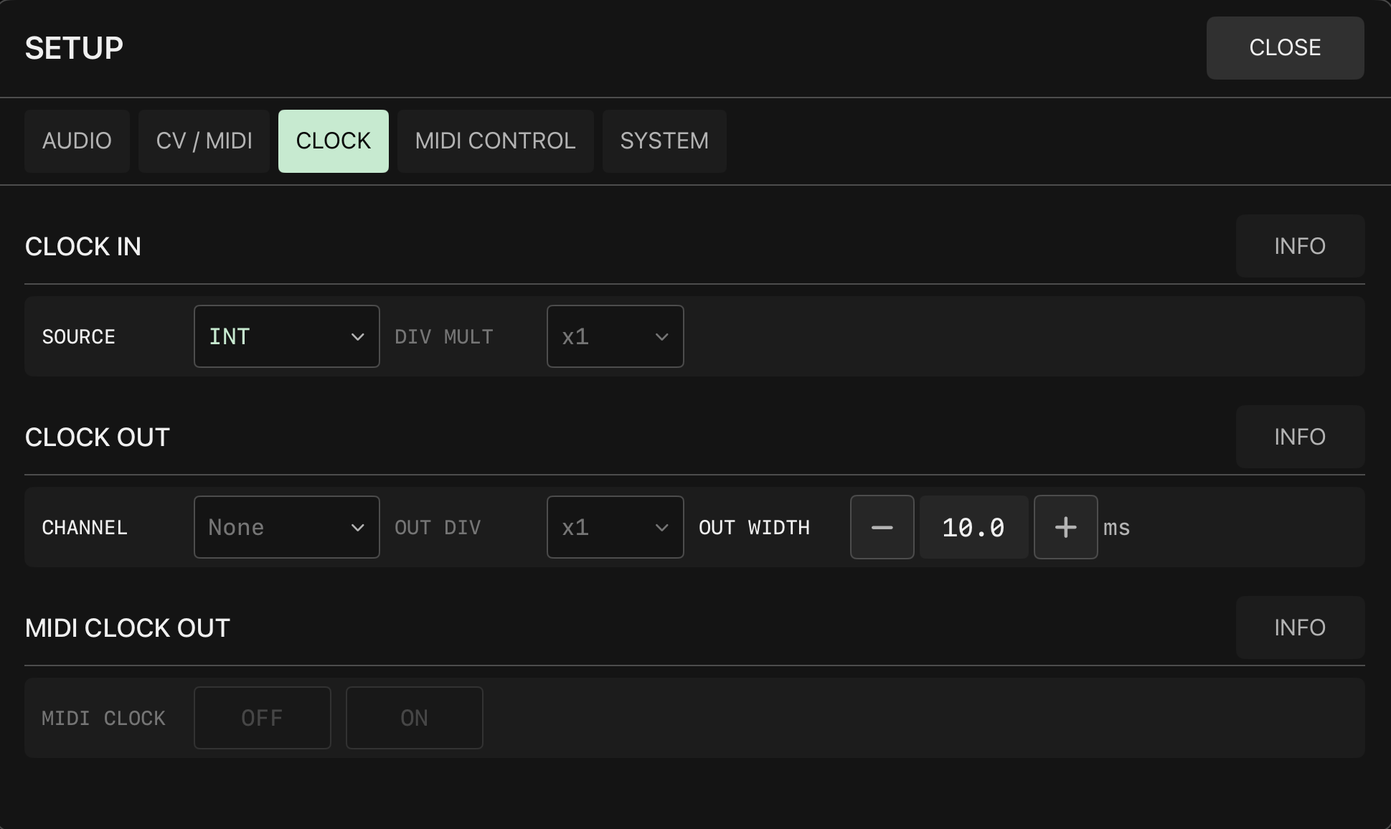
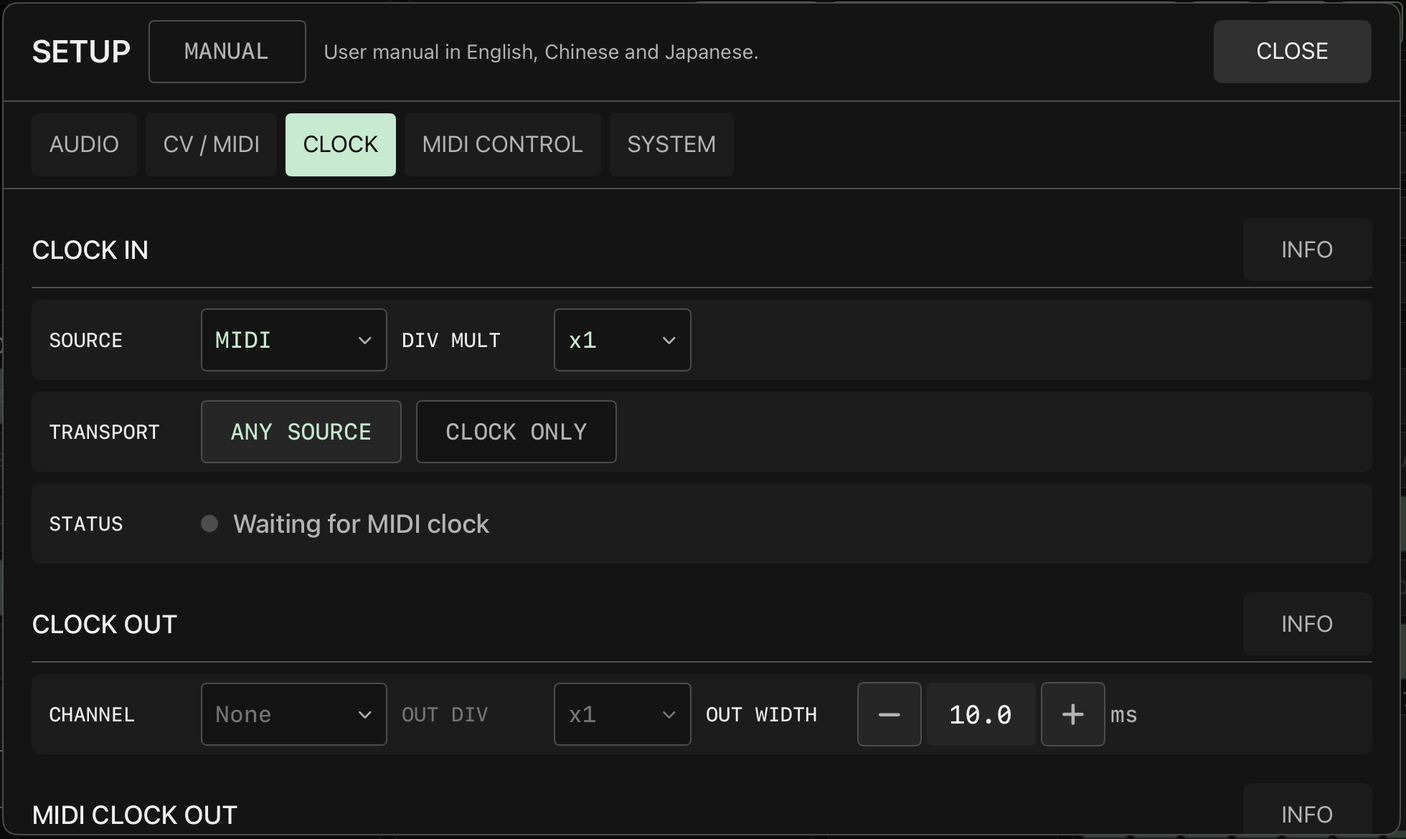
HONKI manual: 1.4.7 screenshots (DRUM KIT, VISUAL RANDOM/GLIDE TIME, SETUP MANUAL/TRANSPORT) and updated RANDOM/GLIDE TIME text
Claude-Session: https://claude.ai/code/session_017WxayuSEX8SDry88TxGAtZ

diff --git a/assets/manuals/honki/HONKI_Manual_ja.html b/assets/manuals/honki/HONKI_Manual_ja.html
@@ -437,7 +437,7 @@ footer { margin-top:80px; padding-top:24px; border-top:1px solid #2A2A2A; font-s
 
 <h3>ヘッダーとトラックセル</h3>
 <div class="fig"><img src="img/voice_header.png" alt="VOICE ヘッダー"></div>
-<div class="cap">ヘッダー：SOUND SOURCE、EDITING TRACK 1、4 つの音源ボタン SYNTH（選択中）/ SAMPLE / PHYSICAL / AU。2 行目は TRACK 1 から 8 のセルで、それぞれ音源名と M / S を表示します。3 行目は SEGMENT 1 から 8、DECAY、HARM、AUTO、TYPE、VOICE、INV、3RD / 5TH / 7TH、CLEAR、SAVE。</div>
+<div class="cap">ヘッダー：SOUND SOURCE、EDITING TRACK 5、4 つの音源ボタン SYNTH / SAMPLE（選択中）/ PHYSICAL / AU。2 行目は TRACK 1 から 8 のセルで、それぞれ音源名と M / S を表示します。3 行目は SEGMENT 1 から 8 と DECAY で、SAMPLE トラックではこの行の右端に CLEAR、SAVE、DRUM KIT があります。図では右側に DRUM KIT メニューが開いていて、TRACKS 5-8、SAVE、LOAD、DELETE が見えます。</div>
 <table>
 <tr><td class="k">音源ボタン</td><td>SYNTH、SAMPLE、PHYSICAL、AU から 1 つを選びます。</td></tr>
 <tr><td class="k">TRACK セル</td><td>トラック名と音源を表示します。M はミュート、S はソロで、0.4 秒長押しで排他ソロになります。状態は MIXER と共有です。トラックを切り替えたとき、別のトラックが RECORD 中なら停止します。</td></tr>
@@ -447,6 +447,10 @@ footer { margin-top:80px; padding-top:24px; border-top:1px solid #2A2A2A; font-s
 <tr><td class="k">SAVE</td><td>現在のパネルのパラメータ（ハーモニー設定を含む）をセグメントメモリに保存します。</td></tr>
 <tr><td class="k">DRUM KIT</td><td>編集中のトラックの音源が SAMPLE のとき、SAVE の右に表示されます。押すと SAVE、LOAD、DELETE のメニューが開きます。ドラムキットは TRACK 5 から 8 の MULTI 設定一式で、MULTI のオン / オフ、パッド数、読み込み済みの各パッドのオーディオファイルとパッドパラメータを含みます。SAVE では名前を入力し（初期値は「Kit」と日時）、オーディオファイルはキットのフォルダにコピーされるため、元のファイルを移動してもキットはそのまま使えます。LOAD には保存済みのキットが保存日時とともに並び、読み込むと TRACK 5 から 8 が SAMPLE に切り替わり、パッドが消去され、MULTI が有効になってキットのパッドが読み込まれます。DELETE は確認のうえでキットとそのオーディオファイルを削除します。保存済みのキットがないときは LOAD と DELETE がグレー表示になります。キットは端末の Documents / DrumKits に保存され、ファイル App から見ることができます。プロジェクトには含まれません。</td></tr>
 </table>
+<div class="fig"><img src="img/drumkit_menu.png" alt="DRUM KIT メニュー"></div>
+<div class="cap">DRUM KIT メニュー：見出しの TRACKS 5-8、SAVE、LOAD、DELETE。LOAD と DELETE は保存済みキットの一覧を開きます。</div>
+<div class="fig"><img src="img/drumkit_save.png" alt="SAVE DRUM KIT ダイアログ"></div>
+<div class="cap">SAVE DRUM KIT ダイアログ：TRACK 5 から 8 のサンプラー設定とオーディオファイルをキットフォルダにコピーするという説明、初期値「Kit」と日時が入った名前欄、CANCEL と SAVE のボタン。</div>
 <p>パネル編集の規則：現在のセグメントにメモリがあるときは、パネルの変更はメモリの内容に対して行われます。メモリがないときはトラックのベースに対して行われます。サンプルの読み込みと録音、PHYSICAL の MODEL と POLYPHONY、AU の読み込みはトラックのベースに作用します。SLICE と MULTI はトラック単位の設定で、互いに排他です。セグメントメモリを編集中は、パネルに「EDITING SEGMENT n MEMORY」の透かしが表示されます。</p>
 
 <h3>NOTE HARMONIC（SAMPLE 以外の音源）</h3>
@@ -871,11 +875,11 @@ footer { margin-top:80px; padding-top:24px; border-top:1px solid #2A2A2A; font-s
 <h2 id="visual">10. VISUAL</h2>
 
 <div class="fig"><img src="img/visual_full.png" alt="VISUAL ページ全体"></div>
-<div class="cap">VISUAL 全ページ。左上は 16:9 のプレビューとステータス行（60 FPS、SURFACES 1）。右上は SOURCE 列（錠アイコン、ALWAYS ON、CAMERA メニュー、BACK CAMERA、2 つの反転ボタン、2 つの回転ボタン）と 4 つのステーション PARTICLE、MESH、FEEDBACK、CHROMASCOPE で、それぞれドラッグハンドル、ON ボタン、MIX バーがあります（図では前の 3 つが 1.00、CHROMASCOPE が 0.35）。下に 4 つのパラメータパネル。</div>
+<div class="cap">VISUAL 全ページ。左上は 16:9 のプレビューとステータス行（60 FPS、SURFACES 1）。右上は SOURCE 列（錠アイコン、ALWAYS ON、CAMERA メニュー、FRONT CAMERA、2 つの反転ボタン、2 つの回転ボタン）と 4 つのステーション PARTICLE、MESH、FEEDBACK、CHROMASCOPE で、それぞれドラッグハンドル、ON ボタン、MIX バーがあります。MIX バーの右には RANDOM ボタン、GLIDE TIME の見出し、HOURS / MINUTES / SECONDS のバーがあります。下に 4 つのパラメータパネル。</div>
 
 <h3>SOURCE 列とステーション列</h3>
 <div class="fig"><img src="img/visual_layers.png" alt="SOURCE 列とステーション列"></div>
-<div class="cap">SOURCE 列：錠アイコン、SOURCE、ALWAYS ON、CAMERA ドロップダウン、レンズメニュー、水平と垂直の反転ボタン、左回転と右回転のボタン。下の 4 行は PARTICLE、MESH、FEEDBACK、CHROMASCOPE で、それぞれハンドル、ON、MIX バーがあります。</div>
+<div class="cap">SOURCE 列：錠アイコン、SOURCE、ALWAYS ON、CAMERA ドロップダウン、レンズメニュー、水平と垂直の反転ボタン、左回転と右回転のボタン。下の 4 行は PARTICLE、MESH、FEEDBACK、CHROMASCOPE で、それぞれハンドル、ON、MIX バーがあります。右の列には RANDOM、GLIDE TIME、HOURS、MINUTES、SECONDS のバーがあります。</div>
 <table>
 <tr><td class="k">SOURCE / ALWAYS ON</td><td>ソースの状態表示です。ソースを回転しているときは、ALWAYS ON の代わりに回転角度（90、180、270）が表示されます。</td></tr>
 <tr><td class="k">ソースメニュー</td><td>CAMERA、PHOTO、VIDEO。</td></tr>
@@ -891,7 +895,7 @@ footer { margin-top:80px; padding-top:24px; border-top:1px solid #2A2A2A; font-s
 
 <h3>パラメータパネル</h3>
 <div class="fig"><img src="img/visual_panels.png" alt="4 つのパラメータパネル"></div>
-<div class="cap">4 つのパラメータパネル。PARTICLE：SIZE、SHAPE、DENSITY、JITTER、DEPTH MIX、DISPLACE、ZOOM、BRIGHTNESS、SCALE X / Y / Z、AUDIO DEPTH、AUDIO TRACK ALL。MESH：モデルメニュー（PENTAGONAL）、LOAD MODEL、DISPLACE、WIREFRAME、ROTATE X / Y / Z、SCALE、AUDIO DEPTH、BRIGHTNESS、AUDIO TRACK ALL。FEEDBACK：SMOOTH、BRIGHT、CHROMA、DIFFUSE、BRIGHTNESS。CHROMASCOPE（旧レイアウト）：EFFECT / MICROPHONE、BASE HUE、HUE SPREAD、BRIGHTNESS、CURVE 1 から 4、ANGLE 1 から 4。現在の CHROMASCOPE パネルは下の項で説明します。図では MESH の ROTATE 3 本の右上に変調ソースのマーカーがあります。</div>
+<div class="cap">4 つのパラメータパネル。PARTICLE：SIZE、SHAPE、DENSITY、JITTER、DEPTH MIX、DISPLACE、ZOOM、BRIGHTNESS、SCALE X / Y / Z、AUDIO DEPTH、AUDIO TRACK ALL。MESH：モデルメニュー（GEAR 8）、LOAD MODEL、DISPLACE、WIREFRAME、ROTATE X / Y / Z、SCALE、AUDIO DEPTH、BRIGHTNESS、AUDIO TRACK ALL。FEEDBACK：SMOOTH、BRIGHT、CHROMA、DIFFUSE、BRIGHTNESS。CHROMASCOPE：AUDIO、BASE HUE、HUE SPREAD、BRIGHTNESS、CURVE とその SPREAD、ANGLE とその SPREAD、LEVEL 1 から 8 のフェーダー。変調ソースや MIDI 割り当てのあるバーは右上にマーカーが付きます。</div>
 
 <h3>CHROMASCOPE</h3>
 <p>CHROMASCOPE はトラックごとに 1 層、最大 8 層を描きます。各層はそのトラック自身の波形から描かれるため、TRACK 1 から 8 がそれぞれ自分の色の帯を持ちます。LEVEL フェーダーが 0 のトラックには層がなく、残りの層が詰めて並ぶので、色、角度、カーブの段差は実際に表示されている層の数で数えられます。</p>
@@ -943,10 +947,12 @@ footer { margin-top:80px; padding-top:24px; border-top:1px solid #2A2A2A; font-s
 </table>
 
 <h3>RANDOM と GLIDE TIME</h3>
-<p>FEEDBACK パネルの下 2 行には RANDOM と GLIDE TIME があります。どちらも VISUAL ページ全体に働き、ステーションの順序を変えると FEEDBACK パネルと一緒に移動し、FEEDBACK がオフでも使えます。</p>
+<div class="fig"><img src="img/visual_random_glide.png" alt="RANDOM と GLIDE TIME"></div>
+<div class="cap">4 つのステーション列の右にある RANDOM ボタン、GLIDE TIME の見出し、HOURS、MINUTES、SECONDS の 3 本のバー。</div>
+<p>RANDOM と GLIDE TIME はページ上段、4 つのステーション列の右、MIX バーの隣にあります。どちらも VISUAL ページ全体に働き、ステーションのオン・オフには関係なく使えます。</p>
 <table>
-<tr><td class="k">RANDOM</td><td>オンになっているステーションの連続パラメータをすべて、それぞれの範囲内のランダムな値にします。MIX バーと GLIDE TIME は変わらず、オフのステーションは対象外です。MESH がオンで内蔵モデルを使っているときは、別の内蔵モデルにも即座に切り替わります。読み込んだ .obj モデルは置き換えられません。変わるのはベース値だけで、MOTION と MOD ROUTE の値はそのままです。</td></tr>
-<tr><td class="k">GLIDE TIME</td><td>0 から 10 秒。100 ms 未満はミリ秒、それ以上は秒で表示されます。パラメータは現在の値からランダムな値へこの時間をかけて滑らかに移り、MESH のモデルは即座に切り替わります。</td></tr>
+<tr><td class="k">RANDOM</td><td>オンになっているステーションの連続パラメータをすべて、それぞれの範囲内のランダムな値にします。MIX バーと GLIDE TIME は変わらず、オフのステーションは対象外です。MESH がオンで内蔵モデルを使っているときは、別の内蔵モデルにも即座に切り替わります。読み込んだ .obj モデルは置き換えられません。変わるのはベース値だけで、MOTION と MOD ROUTE の値はそのままです。RANDOM は MIDI コントローラーから押せます：LEARN をオンにし、RANDOM をタップしてからコントローラーを操作します。PERFORM ページにもボタン型のコントロールとして置けます（GLOBAL グループの VISUAL RANDOM）。MOD ROUTE はボタン型の動作に対応していないため、RANDOM は MOD ROUTE には割り当てられません。</td></tr>
+<tr><td class="k">GLIDE TIME</td><td>HOURS、MINUTES、SECONDS の 3 本の横バー。横にドラッグして値を決めます。ドラッグせずにタップすると、キーボードで数値を入力できます。合計は 3 本の和で、最長 24 時間です。パラメータは現在の値からランダムな値へこの時間をかけて滑らかに移り、MESH のモデルは即座に切り替わります。MOD ROUTE、MIDI Learn、PERFORM ページが扱うのは 3 本を別々にではなく、合計の秒数です。</td></tr>
 </table>
 
 <h3>オーディオ駆動とモジュレーション</h3>
@@ -967,6 +973,8 @@ footer { margin-top:80px; padding-top:24px; border-top:1px solid #2A2A2A; font-s
 <h2 id="setup">11. SETUP</h2>
 
 <p>SETUP は中央に表示されるパネルで、上部にタイトル、MANUAL ボタン、CLOSE があり、パネルの外をタップしても閉じます。MANUAL を押すとこの取扱説明書（英語、日本語、繁体字中国語）がブラウザで開きます。パネルは AUDIO、CV / MIDI、CLOCK、MIDI CONTROL、SYSTEM の 5 つのタブに分かれ、次に開いたときは前回のタブに戻ります。多くのセクションに INFO ボタンがあり、タップすると説明が開きます。</p>
+<div class="fig"><img src="img/setup_manual_button.png" alt="MANUAL ボタンのある SETUP ヘッダー"></div>
+<div class="cap">SETUP のヘッダー：タイトル、説明付きの MANUAL ボタン、右端の CLOSE。</div>
 
 <h3>AUDIO</h3>
 
@@ -999,7 +1007,7 @@ footer { margin-top:80px; padding-top:24px; border-top:1px solid #2A2A2A; font-s
 <h3>CLOCK</h3>
 
 <div class="fig"><img src="img/setup_clock.png" alt="SETUP CLOCK"></div>
-<div class="cap">SETUP の CLOCK タブ。CLOCK IN の SOURCE と DIV MULT、CLOCK OUT の CHANNEL、OUT DIV、OUT WIDTH、そして MIDI CLOCK OUT。</div>
+<div class="cap">SOURCE を MIDI にした SETUP の CLOCK タブ。CLOCK IN の SOURCE、DIV MULT、TRANSPORT、STATUS、CLOCK OUT の CHANNEL、OUT DIV、OUT WIDTH、そして MIDI CLOCK OUT。</div>
 
 <table>
 <tr><td class="k">CLOCK IN</td><td>SOURCE：INT / MIDI / CV。DIV MULT：/4、/2、x1、x2、x4 で、外部ソース使用時のみ使用できます。CV INPUT でチャンネルを選び、SIGNAL に信号、STATUS に状態が表示されます。BPM 20 から 300。MIDI クロックは 24 PPQN で、2 秒間信号がないと途切れたとみなします。</td></tr>
@@ -1008,6 +1016,8 @@ footer { margin-top:80px; padding-top:24px; border-top:1px solid #2A2A2A; font-s
 <tr><td class="k">CLOCK OUT</td><td>CHANNEL、OUT DIV、OUT WIDTH（ミリ秒）。</td></tr>
 <tr><td class="k">MIDI CLOCK OUT</td><td>OFF / ON。MIDI 出力デバイスがないときはグレー表示になります。</td></tr>
 </table>
+<div class="fig"><img src="img/setup_transport.png" alt="TRANSPORT のある CLOCK IN"></div>
+<div class="cap">SOURCE を MIDI にした CLOCK IN：ANY SOURCE と CLOCK ONLY の TRANSPORT 行、Waiting for MIDI clock を示す STATUS 行。</div>
 
 <h3>MIDI CONTROL</h3>
 

diff --git a/assets/manuals/honki/HONKI_Manual_en.html b/assets/manuals/honki/HONKI_Manual_en.html
@@ -437,7 +437,7 @@ footer { margin-top:80px; padding-top:24px; border-top:1px solid #2A2A2A; font-s
 
 <h3>Header and track cells</h3>
 <div class="fig"><img src="img/voice_header.png" alt="VOICE header"></div>
-<div class="cap">Header: SOUND SOURCE, EDITING TRACK 1, the four source buttons SYNTH (selected) / SAMPLE / PHYSICAL / AU. The second row is the TRACK 1 to 8 cells, each showing the source name and M / S. The third row is SEGMENT 1 to 8, DECAY, HARM, AUTO, TYPE, VOICE, INV, 3RD / 5TH / 7TH, CLEAR, SAVE.</div>
+<div class="cap">Header: SOUND SOURCE, EDITING TRACK 5, the four source buttons SYNTH / SAMPLE (selected) / PHYSICAL / AU. The second row is the TRACK 1 to 8 cells, each showing the source name and M / S. The third row is SEGMENT 1 to 8 and DECAY; on a SAMPLE track the right end of this row holds CLEAR, SAVE and DRUM KIT. In the image the DRUM KIT menu is open over the right side, showing TRACKS 5-8, SAVE, LOAD and DELETE.</div>
 <table>
 <tr><td class="k">Source buttons</td><td>SYNTH, SAMPLE, PHYSICAL, AU. One of four.</td></tr>
 <tr><td class="k">TRACK cells</td><td>Show the track name and source. M mutes; S solos, hold 0.4 seconds for exclusive solo. State is shared with MIXER. When switching tracks, another track in RECORD stops.</td></tr>
@@ -447,6 +447,10 @@ footer { margin-top:80px; padding-top:24px; border-top:1px solid #2A2A2A; font-s
 <tr><td class="k">SAVE</td><td>Stores the current panel parameters (including the harmonic settings) into the segment memory.</td></tr>
 <tr><td class="k">DRUM KIT</td><td>Shown to the right of SAVE while the edited track uses the SAMPLE source. Opens a menu with SAVE, LOAD and DELETE. A drum kit is the MULTI setup of TRACK 5 to 8: the MULTI state, the pad count, the audio file of each loaded pad and its pad parameters. SAVE asks for a name (default "Kit" followed by the date and time) and copies the audio files into the kit folder, so the kit stays complete even if the original files are moved. LOAD lists the saved kits with their save time; loading switches TRACK 5 to 8 to SAMPLE, clears their pads, turns MULTI on and loads the pads of the kit. DELETE removes a kit and its audio files after confirmation. LOAD and DELETE are dimmed when no kit is saved. Kits are stored on the device under Documents / DrumKits, visible in the Files app, and are not part of the project.</td></tr>
 </table>
+<div class="fig"><img src="img/drumkit_menu.png" alt="DRUM KIT menu"></div>
+<div class="cap">The DRUM KIT menu: the TRACKS 5-8 heading, SAVE, LOAD and DELETE. LOAD and DELETE open a list of the saved kits.</div>
+<div class="fig"><img src="img/drumkit_save.png" alt="SAVE DRUM KIT dialog"></div>
+<div class="cap">The SAVE DRUM KIT dialog: a note that the TRACK 5 to 8 sampler setup and audio files are copied into the kit folder, the name field with the default "Kit" plus date and time, and the CANCEL and SAVE buttons.</div>
 <p>Panel editing rule: when the current segment has a memory, the panel edits the memory; when it has none, the panel edits the track base. Sample loading or recording, the PHYSICAL MODEL and POLYPHONY, and AU loading always apply to the track base. SLICE and MULTI are track-level settings and are mutually exclusive. While editing a segment memory, the panel shows an "EDITING SEGMENT n MEMORY" watermark.</p>
 
 <h3>NOTE HARMONIC (sources other than SAMPLE)</h3>
@@ -871,11 +875,11 @@ footer { margin-top:80px; padding-top:24px; border-top:1px solid #2A2A2A; font-s
 <h2 id="visual">10. VISUAL</h2>
 
 <div class="fig"><img src="img/visual_full.png" alt="VISUAL full page"></div>
-<div class="cap">VISUAL full page. Top left is the 16:9 preview with the status line (60 FPS, SURFACES 1). Top right is the SOURCE row (lock icon, ALWAYS ON, the CAMERA menu, BACK CAMERA, the two flip buttons and the two rotate buttons) and the four stations PARTICLE, MESH, FEEDBACK, CHROMASCOPE, each with a drag handle, an ON button and a MIX bar (the first three at 1.00 and CHROMASCOPE at 0.35 in the image). Below, the four parameter panels.</div>
+<div class="cap">VISUAL full page. Top left is the 16:9 preview with the status line (60 FPS, SURFACES 1). Top right is the SOURCE row (lock icon, ALWAYS ON, the CAMERA menu, FRONT CAMERA, the two flip buttons and the two rotate buttons) and the four stations PARTICLE, MESH, FEEDBACK, CHROMASCOPE, each with a drag handle, an ON button and a MIX bar. To the right of the MIX bars are the RANDOM button, the GLIDE TIME heading and the HOURS / MINUTES / SECONDS bars. Below, the four parameter panels.</div>
 
 <h3>SOURCE row and station rows</h3>
 <div class="fig"><img src="img/visual_layers.png" alt="SOURCE row and station rows"></div>
-<div class="cap">SOURCE row: lock icon, SOURCE, ALWAYS ON, the CAMERA drop-down, the lens menu, the horizontal and vertical flip buttons, the rotate left and rotate right buttons. The four rows below are PARTICLE, MESH, FEEDBACK, CHROMASCOPE, each with a handle, ON and a MIX bar.</div>
+<div class="cap">SOURCE row: lock icon, SOURCE, ALWAYS ON, the CAMERA drop-down, the lens menu, the horizontal and vertical flip buttons, the rotate left and rotate right buttons. The four rows below are PARTICLE, MESH, FEEDBACK, CHROMASCOPE, each with a handle, ON and a MIX bar. The column on the right holds RANDOM, GLIDE TIME and the HOURS, MINUTES and SECONDS bars.</div>
 <table>
 <tr><td class="k">SOURCE / ALWAYS ON</td><td>Source status text. When the source is rotated, the rotation angle (90, 180 or 270) is shown in place of ALWAYS ON.</td></tr>
 <tr><td class="k">Source menu</td><td>CAMERA, PHOTO, VIDEO.</td></tr>
@@ -891,7 +895,7 @@ footer { margin-top:80px; padding-top:24px; border-top:1px solid #2A2A2A; font-s
 
 <h3>Parameter panels</h3>
 <div class="fig"><img src="img/visual_panels.png" alt="The four parameter panels"></div>
-<div class="cap">The four parameter panels. PARTICLE: SIZE, SHAPE, DENSITY, JITTER, DEPTH MIX, DISPLACE, ZOOM, BRIGHTNESS, SCALE X / Y / Z, AUDIO DEPTH, AUDIO TRACK ALL. MESH: the model menu (PENTAGONAL), LOAD MODEL, DISPLACE, WIREFRAME, ROTATE X / Y / Z, SCALE, AUDIO DEPTH, BRIGHTNESS, AUDIO TRACK ALL. FEEDBACK: SMOOTH, BRIGHT, CHROMA, DIFFUSE, BRIGHTNESS. CHROMASCOPE (older layout): EFFECT / MICROPHONE, BASE HUE, HUE SPREAD, BRIGHTNESS, CURVE 1 to 4, ANGLE 1 to 4; the current CHROMASCOPE panel is described below. In the image the three MESH ROTATE bars show a modulation source marker at the top right.</div>
+<div class="cap">The four parameter panels. PARTICLE: SIZE, SHAPE, DENSITY, JITTER, DEPTH MIX, DISPLACE, ZOOM, BRIGHTNESS, SCALE X / Y / Z, AUDIO DEPTH, AUDIO TRACK ALL. MESH: the model menu (GEAR 8), LOAD MODEL, DISPLACE, WIREFRAME, ROTATE X / Y / Z, SCALE, AUDIO DEPTH, BRIGHTNESS, AUDIO TRACK ALL. FEEDBACK: SMOOTH, BRIGHT, CHROMA, DIFFUSE, BRIGHTNESS. CHROMASCOPE: AUDIO, BASE HUE, HUE SPREAD, BRIGHTNESS, CURVE and its SPREAD, ANGLE and its SPREAD, and the LEVEL 1 to 8 faders. Bars with a modulation source or a MIDI assignment show a marker at the top right.</div>
 
 <h3>CHROMASCOPE</h3>
 <p>CHROMASCOPE draws up to eight layers, one per track. Each layer is drawn from the waveform of its own track, so TRACK 1 to 8 each get their own colour band. A track whose LEVEL fader is at 0 has no layer; the remaining layers close up, so the colour, angle and curve steps are always counted over the layers that are actually shown.</p>
@@ -943,10 +947,12 @@ footer { margin-top:80px; padding-top:24px; border-top:1px solid #2A2A2A; font-s
 </table>
 
 <h3>RANDOM and GLIDE TIME</h3>
-<p>The two bottom rows of the FEEDBACK panel hold RANDOM and GLIDE TIME. They act on the whole VISUAL page, move together with the FEEDBACK panel when the station order changes, and stay active when FEEDBACK is off.</p>
+<div class="fig"><img src="img/visual_random_glide.png" alt="RANDOM and GLIDE TIME"></div>
+<div class="cap">The RANDOM button, the GLIDE TIME heading and the three bars HOURS, MINUTES and SECONDS, to the right of the four station rows.</div>
+<p>RANDOM and GLIDE TIME sit in the upper part of the page, to the right of the four station rows next to the MIX bars. They act on the whole VISUAL page and do not depend on any station being on.</p>
 <table>
-<tr><td class="k">RANDOM</td><td>Sets every continuous parameter of the stations that are on to a random value within its range; the MIX bars and GLIDE TIME are not touched, and stations that are off are skipped. When MESH is on and uses a built-in model, RANDOM also switches to a different built-in model at once; a loaded .obj model is not replaced. Only the base values change; MOTION and MOD ROUTE values stay as they are.</td></tr>
-<tr><td class="k">GLIDE TIME</td><td>0 to 10 seconds, shown in milliseconds below 100 ms and in seconds above. The parameters glide from their current value to the random value over this time; the MESH model switches immediately.</td></tr>
+<tr><td class="k">RANDOM</td><td>Sets every continuous parameter of the stations that are on to a random value within its range; the MIX bars and GLIDE TIME are not touched, and stations that are off are skipped. When MESH is on and uses a built-in model, RANDOM also switches to a different built-in model at once; a loaded .obj model is not replaced. Only the base values change; MOTION and MOD ROUTE values stay as they are. RANDOM can be triggered from a MIDI controller: turn on LEARN, tap RANDOM, then press the controller. It can also be placed on the PERFORM page as a button control, found under VISUAL RANDOM in the GLOBAL group. MOD ROUTE does not support button actions, so RANDOM cannot be routed there.</td></tr>
+<tr><td class="k">GLIDE TIME</td><td>Three horizontal bars, HOURS, MINUTES and SECONDS. Drag sideways to set a value; tap without dragging to type a number on the keyboard. The total is the sum of the three, up to 24 hours. The parameters glide from their current value to the random value over this time; the MESH model switches immediately. MOD ROUTE, MIDI Learn and the PERFORM page control the total time in seconds, not the three bars separately.</td></tr>
 </table>
 
 <h3>Audio drive and modulation</h3>
@@ -967,6 +973,8 @@ footer { margin-top:80px; padding-top:24px; border-top:1px solid #2A2A2A; font-s
 <h2 id="setup">11. SETUP</h2>
 
 <p>SETUP is a centred panel with a title, a MANUAL button and CLOSE at the top; tapping outside the panel also closes it. MANUAL opens this user manual in the browser (English, Japanese and Traditional Chinese). The panel has five tabs: AUDIO, CV / MIDI, CLOCK, MIDI CONTROL, SYSTEM, and reopens on the tab used last. Most sections have an INFO button that expands a description when tapped.</p>
+<div class="fig"><img src="img/setup_manual_button.png" alt="SETUP header with MANUAL button"></div>
+<div class="cap">The SETUP header: the title, the MANUAL button with its description, and CLOSE on the right.</div>
 
 <h3>AUDIO</h3>
 
@@ -999,7 +1007,7 @@ footer { margin-top:80px; padding-top:24px; border-top:1px solid #2A2A2A; font-s
 <h3>CLOCK</h3>
 
 <div class="fig"><img src="img/setup_clock.png" alt="SETUP CLOCK"></div>
-<div class="cap">The CLOCK tab of SETUP: SOURCE and DIV MULT under CLOCK IN, CHANNEL, OUT DIV and OUT WIDTH under CLOCK OUT, and MIDI CLOCK OUT.</div>
+<div class="cap">The CLOCK tab of SETUP with SOURCE set to MIDI: SOURCE, DIV MULT, TRANSPORT and STATUS under CLOCK IN, CHANNEL, OUT DIV and OUT WIDTH under CLOCK OUT, and MIDI CLOCK OUT.</div>
 
 <table>
 <tr><td class="k">CLOCK IN</td><td>SOURCE: INT / MIDI / CV. DIV MULT: /4, /2, x1, x2, x4, available only with an external source. CV INPUT selects the channel, SIGNAL shows the signal, STATUS shows the state. BPM 20 to 300. MIDI clock is 24 PPQN; 2 seconds without signal is treated as lost.</td></tr>
@@ -1008,6 +1016,8 @@ footer { margin-top:80px; padding-top:24px; border-top:1px solid #2A2A2A; font-s
 <tr><td class="k">CLOCK OUT</td><td>CHANNEL, OUT DIV, OUT WIDTH (ms).</td></tr>
 <tr><td class="k">MIDI CLOCK OUT</td><td>OFF / ON. Dimmed when there is no MIDI output device.</td></tr>
 </table>
+<div class="fig"><img src="img/setup_transport.png" alt="CLOCK IN with TRANSPORT"></div>
+<div class="cap">CLOCK IN with SOURCE set to MIDI: the TRANSPORT row with ANY SOURCE and CLOCK ONLY, and the STATUS line showing Waiting for MIDI clock.</div>
 
 <h3>MIDI CONTROL</h3>
 

diff --git a/assets/manuals/honki/HONKI_Manual_zh-Hant.html b/assets/manuals/honki/HONKI_Manual_zh-Hant.html
@@ -437,7 +437,7 @@ footer { margin-top:80px; padding-top:24px; border-top:1px solid #2A2A2A; font-s
 
 <h3>標頭與 track 格</h3>
 <div class="fig"><img src="img/voice_header.png" alt="VOICE 標頭"></div>
-<div class="cap">標頭：SOUND SOURCE、EDITING TRACK 1、四個音源按鈕 SYNTH（選中）/ SAMPLE / PHYSICAL / AU。第二列為 TRACK 1 至 8 格，各顯示音源名稱與 M / S。第三列為 SEGMENT 1 至 8、DECAY、HARM、AUTO、TYPE、VOICE、INV、3RD / 5TH / 7TH、CLEAR、SAVE。</div>
+<div class="cap">標頭：SOUND SOURCE、EDITING TRACK 5、四個音源按鈕 SYNTH / SAMPLE（選中）/ PHYSICAL / AU。第二列為 TRACK 1 至 8 格，各顯示音源名稱與 M / S。第三列為 SEGMENT 1 至 8 與 DECAY；SAMPLE 軌時這列右端有 CLEAR、SAVE 與 DRUM KIT。圖中右側展開了 DRUM KIT 選單，可見 TRACKS 5-8、SAVE、LOAD、DELETE。</div>
 <table>
 <tr><td class="k">音源按鈕</td><td>SYNTH、SAMPLE、PHYSICAL、AU，四選一。</td></tr>
 <tr><td class="k">TRACK 格</td><td>顯示 track 名與音源。M 靜音；S 獨奏，長按 0.4 秒為排他獨奏。狀態與 MIXER 共用。切換 track 時，另一軌若在 RECORD 會停止。</td></tr>
@@ -447,6 +447,10 @@ footer { margin-top:80px; padding-top:24px; border-top:1px solid #2A2A2A; font-s
 <tr><td class="k">SAVE</td><td>將目前面板參數（含和聲設定）存入 segment 記憶。</td></tr>
 <tr><td class="k">DRUM KIT</td><td>編輯中的 track 音源為 SAMPLE 時顯示在 SAVE 右側，按下開啟 SAVE、LOAD、DELETE 選單。鼓組是 TRACK 5 至 8 的整套 MULTI 設定：MULTI 開關、pad 數、每個已載入 pad 的音檔與 pad 參數。SAVE 會要求輸入名稱（預設為「Kit」加日期時間），音檔會複製到鼓組資料夾，原始檔案搬走也不影響。LOAD 列出已存的鼓組與儲存時間，載入時 TRACK 5 至 8 切到 SAMPLE、清空 pad、開啟 MULTI，再載入鼓組的 pad。DELETE 經確認後刪除鼓組與其音檔。沒有任何鼓組時 LOAD 與 DELETE 灰顯。鼓組存在裝置的 Documents / DrumKits，可在「檔案」app 看到，不屬於專案的一部分。</td></tr>
 </table>
+<div class="fig"><img src="img/drumkit_menu.png" alt="DRUM KIT 選單"></div>
+<div class="cap">DRUM KIT 選單：標題 TRACKS 5-8，以及 SAVE、LOAD、DELETE。LOAD 與 DELETE 會展開已存鼓組的清單。</div>
+<div class="fig"><img src="img/drumkit_save.png" alt="SAVE DRUM KIT 對話框"></div>
+<div class="cap">SAVE DRUM KIT 對話框：說明 TRACK 5 至 8 的取樣設定與音檔會複製進鼓組資料夾，名稱欄預設為「Kit」加日期時間，下方為 CANCEL 與 SAVE。</div>
 <p>面板編輯規則：目前 segment 有記憶時，面板改的是記憶內容；沒有記憶時改的是 track 基底。取樣載入或錄音、PHYSICAL 的 MODEL 與 POLYPHONY、AU 載入都作用於 track 基底。SLICE 與 MULTI 為 track 層級設定，兩者互斥。編輯 segment 記憶時，面板顯示「EDITING SEGMENT n MEMORY」浮水印。</p>
 
 <h3>NOTE HARMONIC（SAMPLE 以外的音源）</h3>
@@ -871,11 +875,11 @@ footer { margin-top:80px; padding-top:24px; border-top:1px solid #2A2A2A; font-s
 <h2 id="visual">10. VISUAL</h2>
 
 <div class="fig"><img src="img/visual_full.png" alt="VISUAL 全頁"></div>
-<div class="cap">VISUAL 全頁。左上為 16:9 預覽與狀態列（60 FPS、SURFACES 1）。右上為 SOURCE 列（鎖頭圖示、ALWAYS ON、CAMERA 選單、BACK CAMERA、兩個翻轉按鈕、兩個旋轉按鈕）與四個站：PARTICLE、MESH、FEEDBACK、CHROMASCOPE，各有拖曳把手、ON 按鈕與 MIX 條（圖中前三個為 1.00，CHROMASCOPE 為 0.35）。下方四個參數面板。</div>
+<div class="cap">VISUAL 全頁。左上為 16:9 預覽與狀態列（60 FPS、SURFACES 1）。右上為 SOURCE 列（鎖頭圖示、ALWAYS ON、CAMERA 選單、FRONT CAMERA、兩個翻轉按鈕、兩個旋轉按鈕）與四個站：PARTICLE、MESH、FEEDBACK、CHROMASCOPE，各有拖曳把手、ON 按鈕與 MIX 條。MIX 條右邊是 RANDOM 鈕、GLIDE TIME 標題與 HOURS / MINUTES / SECONDS 三支橫桿。下方四個參數面板。</div>
 
 <h3>SOURCE 列與站列</h3>
 <div class="fig"><img src="img/visual_layers.png" alt="SOURCE 列與站列"></div>
-<div class="cap">SOURCE 列：鎖頭圖示、SOURCE、ALWAYS ON、CAMERA 下拉、鏡頭選單、水平與垂直翻轉按鈕、向左與向右旋轉按鈕。下方四列為 PARTICLE、MESH、FEEDBACK、CHROMASCOPE，各有把手、ON 與 MIX 條。</div>
+<div class="cap">SOURCE 列：鎖頭圖示、SOURCE、ALWAYS ON、CAMERA 下拉、鏡頭選單、水平與垂直翻轉按鈕、向左與向右旋轉按鈕。下方四列為 PARTICLE、MESH、FEEDBACK、CHROMASCOPE，各有把手、ON 與 MIX 條。最右一欄是 RANDOM、GLIDE TIME 與 HOURS、MINUTES、SECONDS 三支橫桿。</div>
 <table>
 <tr><td class="k">SOURCE / ALWAYS ON</td><td>來源狀態文字。來源有旋轉時，ALWAYS ON 的位置改顯示旋轉角度（90、180 或 270）。</td></tr>
 <tr><td class="k">來源選單</td><td>CAMERA、PHOTO、VIDEO。</td></tr>
@@ -891,7 +895,7 @@ footer { margin-top:80px; padding-top:24px; border-top:1px solid #2A2A2A; font-s
 
 <h3>參數面板</h3>
 <div class="fig"><img src="img/visual_panels.png" alt="四個參數面板"></div>
-<div class="cap">四個參數面板。PARTICLE：SIZE、SHAPE、DENSITY、JITTER、DEPTH MIX、DISPLACE、ZOOM、BRIGHTNESS、SCALE X / Y / Z、AUDIO DEPTH、AUDIO TRACK ALL。MESH：模型選單（PENTAGONAL）、LOAD MODEL、DISPLACE、WIREFRAME、ROTATE X / Y / Z、SCALE、AUDIO DEPTH、BRIGHTNESS、AUDIO TRACK ALL。FEEDBACK：SMOOTH、BRIGHT、CHROMA、DIFFUSE、BRIGHTNESS。CHROMASCOPE（舊版面）：EFFECT / MICROPHONE、BASE HUE、HUE SPREAD、BRIGHTNESS、CURVE 1 至 4、ANGLE 1 至 4；目前的 CHROMASCOPE 面板見下一節。圖中 MESH 的 ROTATE 三條右上角有調變來源標記。</div>
+<div class="cap">四個參數面板。PARTICLE：SIZE、SHAPE、DENSITY、JITTER、DEPTH MIX、DISPLACE、ZOOM、BRIGHTNESS、SCALE X / Y / Z、AUDIO DEPTH、AUDIO TRACK ALL。MESH：模型選單（GEAR 8）、LOAD MODEL、DISPLACE、WIREFRAME、ROTATE X / Y / Z、SCALE、AUDIO DEPTH、BRIGHTNESS、AUDIO TRACK ALL。FEEDBACK：SMOOTH、BRIGHT、CHROMA、DIFFUSE、BRIGHTNESS。CHROMASCOPE：AUDIO、BASE HUE、HUE SPREAD、BRIGHTNESS、CURVE 與其 SPREAD、ANGLE 與其 SPREAD，以及 LEVEL 1 至 8 fader。有調變來源或 MIDI 指派的橫桿右上角會有標記。</div>
 
 <h3>CHROMASCOPE</h3>
 <p>CHROMASCOPE 最多畫八層，每個 track 一層。每一層都用自己 track 的波形來畫，所以 TRACK 1 至 8 各有自己的色帶。LEVEL 推桿為 0 的 track 沒有層，其餘的層會往前補齊，因此色相、角度、曲線的級距都是以實際顯示的層數計算。</p>
@@ -943,10 +947,12 @@ footer { margin-top:80px; padding-top:24px; border-top:1px solid #2A2A2A; font-s
 </table>
 
 <h3>RANDOM 與 GLIDE TIME</h3>
-<p>FEEDBACK 面板最下面兩列是 RANDOM 與 GLIDE TIME。兩者作用於整個 VISUAL 頁，站的順序改變時會跟著 FEEDBACK 面板移動，FEEDBACK 關閉時仍可使用。</p>
+<div class="fig"><img src="img/visual_random_glide.png" alt="RANDOM 與 GLIDE TIME"></div>
+<div class="cap">四個站列右側的 RANDOM 鈕、GLIDE TIME 標題，以及 HOURS、MINUTES、SECONDS 三支橫桿。</div>
+<p>RANDOM 與 GLIDE TIME 在頁面上段、四個站列的右側，MIX 條旁邊。兩者作用於整個 VISUAL 頁，不受任何站開關影響。</p>
 <table>
-<tr><td class="k">RANDOM</td><td>把已開啟的站的所有連續參數各自隨機設到範圍內的值；MIX 條與 GLIDE TIME 不動，關閉的站不處理。MESH 開啟且使用內建模型時，RANDOM 也會立即換成另一個內建模型；載入的 .obj 模型不會被換掉。只改基底值，MOTION 與 MOD ROUTE 的值維持不變。</td></tr>
-<tr><td class="k">GLIDE TIME</td><td>0 至 10 秒，未滿 100 ms 以毫秒顯示，其餘以秒顯示。參數在這段時間內從目前值平滑滑到隨機值；MESH 模型則立即切換。</td></tr>
+<tr><td class="k">RANDOM</td><td>把已開啟的站的所有連續參數各自隨機設到範圍內的值；MIX 條與 GLIDE TIME 不動，關閉的站不處理。MESH 開啟且使用內建模型時，RANDOM 也會立即換成另一個內建模型；載入的 .obj 模型不會被換掉。只改基底值，MOTION 與 MOD ROUTE 的值維持不變。RANDOM 可由 MIDI 控制器觸發：開啟 LEARN，點 RANDOM，再按控制器。也可放進 PERFORM 頁作為按鍵型控制，在 GLOBAL 群組的 VISUAL RANDOM。MOD ROUTE 不支援按鍵型動作，RANDOM 無法指派到 MOD ROUTE。</td></tr>
+<tr><td class="k">GLIDE TIME</td><td>HOURS、MINUTES、SECONDS 三支橫桿。橫向拖曳設值；點一下不拖曳可用鍵盤輸入數字。總時間為三者相加，最長 24 小時。參數在這段時間內從目前值平滑滑到隨機值；MESH 模型則立即切換。MOD ROUTE、MIDI Learn 與 PERFORM 頁控制的是總秒數，不是三支橫桿各自的值。</td></tr>
 </table>
 
 <h3>音訊驅動與調變</h3>
@@ -967,6 +973,8 @@ footer { margin-top:80px; padding-top:24px; border-top:1px solid #2A2A2A; font-s
 <h2 id="setup">11. SETUP</h2>
 
 <p>SETUP 為置中的面板，上方有標題、MANUAL 鈕與 CLOSE，點面板外也會關閉。MANUAL 會在瀏覽器開啟這份使用手冊（英文、日文、繁體中文）。面板分為五個分頁：AUDIO、CV / MIDI、CLOCK、MIDI CONTROL、SYSTEM，再次開啟時回到上次的分頁。多數區塊有 INFO 鈕，點一下展開說明。</p>
+<div class="fig"><img src="img/setup_manual_button.png" alt="含 MANUAL 鈕的 SETUP 標頭"></div>
+<div class="cap">SETUP 標頭：標題、附說明文字的 MANUAL 鈕，以及右端的 CLOSE。</div>
 
 <h3>AUDIO</h3>
 
@@ -999,7 +1007,7 @@ footer { margin-top:80px; padding-top:24px; border-top:1px solid #2A2A2A; font-s
 <h3>CLOCK</h3>
 
 <div class="fig"><img src="img/setup_clock.png" alt="SETUP CLOCK"></div>
-<div class="cap">SETUP 的 CLOCK 分頁：CLOCK IN 的 SOURCE 與 DIV MULT，CLOCK OUT 的 CHANNEL、OUT DIV 與 OUT WIDTH，以及 MIDI CLOCK OUT。</div>
+<div class="cap">SOURCE 設為 MIDI 時 SETUP 的 CLOCK 分頁：CLOCK IN 的 SOURCE、DIV MULT、TRANSPORT 與 STATUS，CLOCK OUT 的 CHANNEL、OUT DIV 與 OUT WIDTH，以及 MIDI CLOCK OUT。</div>
 
 <table>
 <tr><td class="k">CLOCK IN</td><td>SOURCE：INT / MIDI / CV。DIV MULT：/4、/2、x1、x2、x4，只在使用外部來源時可用。CV INPUT 選聲道，SIGNAL 顯示訊號，STATUS 顯示狀態。BPM 20 至 300。MIDI 時脈為 24 PPQN，2 秒無訊號視為中斷。</td></tr>
@@ -1008,6 +1016,8 @@ footer { margin-top:80px; padding-top:24px; border-top:1px solid #2A2A2A; font-s
 <tr><td class="k">CLOCK OUT</td><td>CHANNEL、OUT DIV、OUT WIDTH（毫秒）。</td></tr>
 <tr><td class="k">MIDI CLOCK OUT</td><td>OFF / ON。沒有 MIDI 輸出裝置時灰顯。</td></tr>
 </table>
+<div class="fig"><img src="img/setup_transport.png" alt="含 TRANSPORT 的 CLOCK IN"></div>
+<div class="cap">SOURCE 設為 MIDI 時的 CLOCK IN：TRANSPORT 列的 ANY SOURCE 與 CLOCK ONLY，以及顯示 Waiting for MIDI clock 的 STATUS 列。</div>
 
 <h3>MIDI CONTROL</h3>
 
